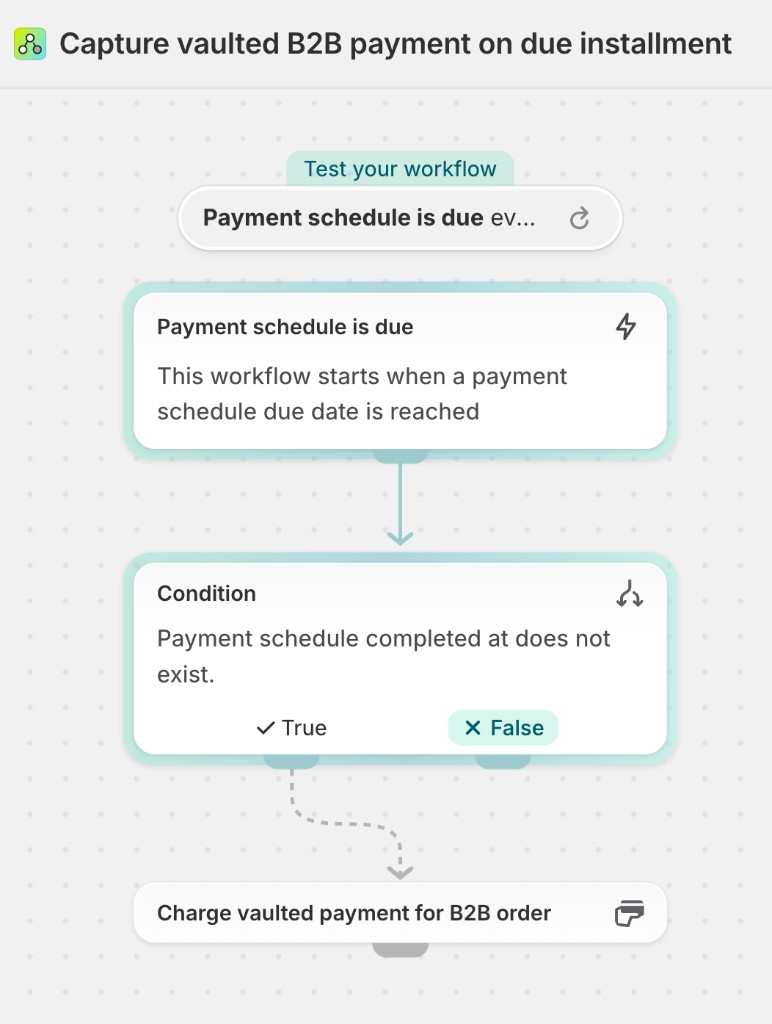
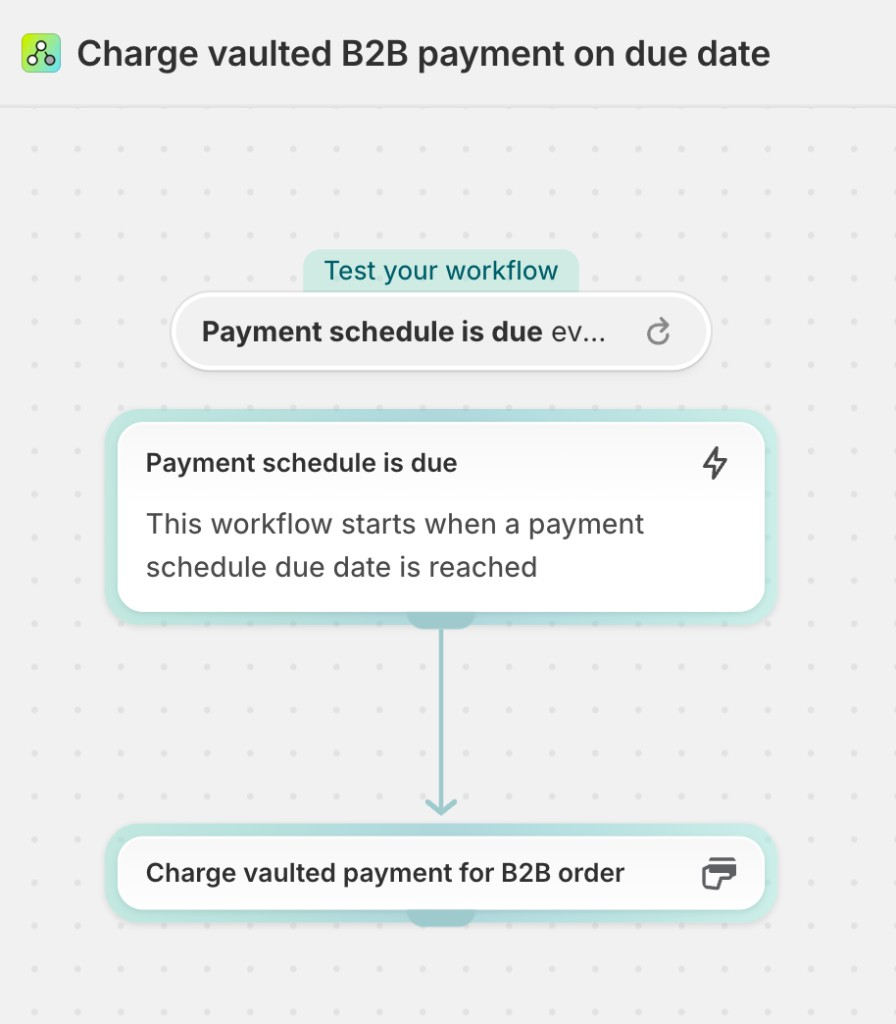
Simplify charge Flow to trigger + action (no condition)
The "Charge vaulted payment for B2B order" action has the already-paid check
built in (confirmed with the action's developer + tested), so the
completedAt-is-nil condition was redundant. Drop it: the charge Flow is now
just trigger (Payment schedule is due) -> action, retitled "on due date".
Updates prompt 04, SESSION Part 3, flow/README, and the screenshot.

Changed region(s): [[0.0933, 0.125, 0.9016, 0.9375], [0.0, 0.0, 0.9637, 0.0938]]

diff --git a/prompts/04-flow-charge-on-fulfillment.md b/prompts/04-flow-charge-on-fulfillment.md
@@ -2,28 +2,26 @@
 
 Automatically charge the buyer's vaulted card / bank account **on fulfillment**: it fires when a B2B
 order's payment schedule comes due, which for due-on-fulfillment terms is at fulfillment (and **per
-fulfillment** on Plus), with a safety check that skips it if the payment was already collected. This is
-**Part 3a** of the workshop and the **only required Flow**. It's **independent of the tagging Flow**
-(Part 3b): it acts on the payment schedule, not the `Prebooking` tag, so it never waits on tagging. The
-same Flow serves both plans.
+fulfillment** on Plus). This is **Part 3a** of the workshop and the **only required Flow**. It's
+**independent of the tagging Flow** (Part 3b): it acts on the payment schedule, not the `Prebooking` tag,
+so it never waits on tagging. The same Flow serves both plans.
 
 ## Prompt (copy into Sidekick)
 
 ```text
-Shopify Flow: Charge vaulted B2B payment on due installment
+Shopify Flow: Charge vaulted B2B payment on due date
 
-Trigger: Payment schedule due
-Condition: paymentSchedule.completedAt is nil (installment not yet collected)
-Action: Capture vaulted payment method, using paymentSchedule.id
+Trigger: Payment schedule is due
+Action: Charge vaulted payment for B2B order
 
-Do not use an order-level paid check. The condition must be installment-specific to avoid
-double-charging. Designed for per fulfillment B2B payment capture.
+No condition needed: the "Charge vaulted payment for B2B order" action already skips schedules that
+have been paid, so it won't double-charge. Designed for per fulfillment B2B payment capture.
 ```
 
 ### While Sidekick builds: talk this through
 
 1. **Trigger = payment schedule due:** for a due-on-fulfillment order that fires when you fulfill; a Net 30 order would fire 30 days out.
-2. **Safety check:** skip if the payment was already collected (`completedAt` exists), so it never double-charges.
+2. **Just trigger and action:** no condition needed, the charge action skips already-paid schedules itself.
 3. **Independent of the tagging Flow:** it keys off the payment schedule, not the `Prebooking` tag, so there's nothing to wait for.
 4. **One Flow, both plans:** non-Plus charges once at full fulfillment; Plus charges per fulfillment because the platform creates a schedule per shipment.
 
@@ -31,11 +29,9 @@ double-charging. Designed for per fulfillment B2B payment capture.
 
 - **Trigger:** Payment schedule is due (fires when a payment schedule's due date is reached;
   for due-on-fulfillment that is when fulfillment happens)
-- **Condition (the only one):**
-  - `paymentSchedule.completedAt` does not exist (the installment hasn't been collected yet: the safety /
-    double-charge guard). Keep it **installment-specific**, an order-level "paid" check would double-charge
-    on multi-installment orders.
-- **Action:** Charge vaulted payment for B2B order (against the due `paymentSchedule.id`)
+- **Action:** Charge vaulted payment for B2B order
+- **No condition:** the charge action already skips schedules that have been paid, so it won't
+  double-charge, no separate guard is needed.
 
 ## One Flow, both plans
 
@@ -51,13 +47,15 @@ charges the vaulted method for the due amount, once, with no waiting on any tag.
 
 ## Teach (deeper, optional)
 
-- The `completedAt does not exist` condition is the safety check the presenter asked for: it skips any
-  schedule that's already been collected, so a re-run or re-fulfillment can't double-charge.
+- **No explicit "already paid" guard is needed.** The **Charge vaulted payment for B2B order** action
+  skips schedules that have already been collected, so a re-run or re-fulfillment can't double-charge.
+  (Earlier iterations added a `paymentSchedule.completedAt is nil` condition for this; it turned out to
+  be redundant with the action's built-in check, so the Flow is just trigger, then action.)
 - It's inherently **B2B-scoped** without an explicit "is B2B" condition: the trigger fires on a payment
   schedule (which only B2B / net-terms orders have) and the action charges a vaulted B2B method. It keys
   off the schedule, not the `Prebooking` tag, so the charge never depends on the optional tagging Flow. In
-  this store's model every B2B order that should auto-charge is on terms, so "any B2B schedule that's due,
-  if not already collected" is the right rule.
+  this store's model every B2B order that should auto-charge is on terms, so "charge any B2B schedule when
+  it's due" is the right rule.
 - The action charges the vaulted method through the order's payment schedule, independent of the
   store's payment-capture setting, so either "capture on fulfillment" or "manual capture" is fine
   (just not "automatically at checkout," which collects up front and defeats the model).

diff --git a/SESSION.md b/SESSION.md
@@ -308,27 +308,26 @@ Sidekick. **3a (charge on fulfillment) is required, build it first.** **3b (tag)
 ### 3a. Charge on fulfillment (required)
 
 ```text
-Shopify Flow: Charge vaulted B2B payment on due installment
+Shopify Flow: Charge vaulted B2B payment on due date
 
-Trigger: Payment schedule due
-Condition: paymentSchedule.completedAt is nil (installment not yet collected)
-Action: Capture vaulted payment method, using paymentSchedule.id
+Trigger: Payment schedule is due
+Action: Charge vaulted payment for B2B order
 
-Do not use an order-level paid check. The condition must be installment-specific to avoid
-double-charging. Designed for per fulfillment B2B payment capture.
+No condition needed: the "Charge vaulted payment for B2B order" action already skips schedules that
+have been paid, so it won't double-charge. Designed for per fulfillment B2B payment capture.
 ```
 
-The trigger fires when a payment schedule comes due (for due-on-fulfillment, that's when you fulfill).
-The `completedAt is nil` check is **installment-specific**, it skips any schedule that's already been
-collected, so it never double-charges (an order-level "paid" check would over-charge on multi-installment
-orders). It acts on the **payment schedule, not any tag**, so it stands on its own. Same Flow on both
-plans: non-Plus charges once at full fulfillment, Plus charges per fulfillment.
+The trigger fires when a payment schedule comes due (for due-on-fulfillment, that's when you fulfill),
+and the action charges the vaulted method for that schedule. No condition is needed: the **charge action
+already skips schedules that have been paid**, so it won't double-charge. It acts on the **payment
+schedule, not any tag**, so it stands on its own. Same Flow on both plans: non-Plus charges once at full
+fulfillment, Plus charges per fulfillment.
 
 **Prefer not to build it live?** Import the ready-made workflow instead:
 [`workshop-assets/flow/flow-2-charge-on-fulfillment.flow`](workshop-assets/flow/flow-2-charge-on-fulfillment.flow)
 (Shopify Flow → **Import**). Preview it, save it, and **turn it on**. Built, it looks like this:
 
-<a href="workshop-assets/flow/images/charge-on-fulfillment-flow.png"><img src="workshop-assets/flow/images/charge-on-fulfillment-flow.png" alt="Charge vaulted B2B payment Flow: Payment schedule is due trigger, then a Payment schedule completed at does not exist condition, then a Charge vaulted payment for B2B order action" width="320"></a>
+<a href="workshop-assets/flow/images/charge-on-fulfillment-flow.png"><img src="workshop-assets/flow/images/charge-on-fulfillment-flow.png" alt="Charge vaulted B2B payment Flow: a Payment schedule is due trigger connected straight to a Charge vaulted payment for B2B order action, no condition" width="320"></a>
 
 <sub>Click to enlarge.</sub>
 

diff --git a/workshop-assets/flow/README.md b/workshop-assets/flow/README.md
@@ -4,8 +4,9 @@ Workshop **Part 3**. Two Shopify Flow workflows for the pre-book order lifecycle
 
 - **Charge on fulfillment (Part 3a, required).** Charges the buyer's vaulted method when a B2B order's
   payment schedule comes due, which for due-on-fulfillment is at fulfillment (once at full fulfillment on
-  non-Plus, per fulfillment on Plus), and skips any schedule already collected (safety check). It keys
-  off the payment schedule, not the tag, so it's independent of the tag Flow.
+  non-Plus, per fulfillment on Plus). Just a trigger and an action, no condition: the charge action
+  already skips schedules that have been paid. It keys off the payment schedule, not the tag, so it's
+  independent of the tag Flow.
 - **Tag pre-book orders (Part 3b, optional).** Tags B2B orders that contain a pre-book item so the store
   owner can filter them in Admin. Merchant-visibility only; nothing depends on it. Build it if there's
   time, or leave it as a take-home.
@@ -26,8 +27,8 @@ and teach notes are documented in the build walkthrough, which is the **single s
 For anyone who'd rather not build the Flows via Sidekick or by hand, exported `.flow` files
 are provided here so you can import them directly:
 
-- `flow-2-charge-on-fulfillment.flow` (the charge Flow, Part 3a, required): schedule-driven, a single
-  `completedAt` guard, no tag dependency
+- `flow-2-charge-on-fulfillment.flow` (the charge Flow, Part 3a, required): schedule-driven trigger,
+  then the charge action, no condition
 - `flow-1-tag-prebook-orders.flow` (the tag Flow, Part 3b, optional)
 
 To import: Shopify admin, Apps, Shopify Flow, Import, then select the `.flow` file. Review the